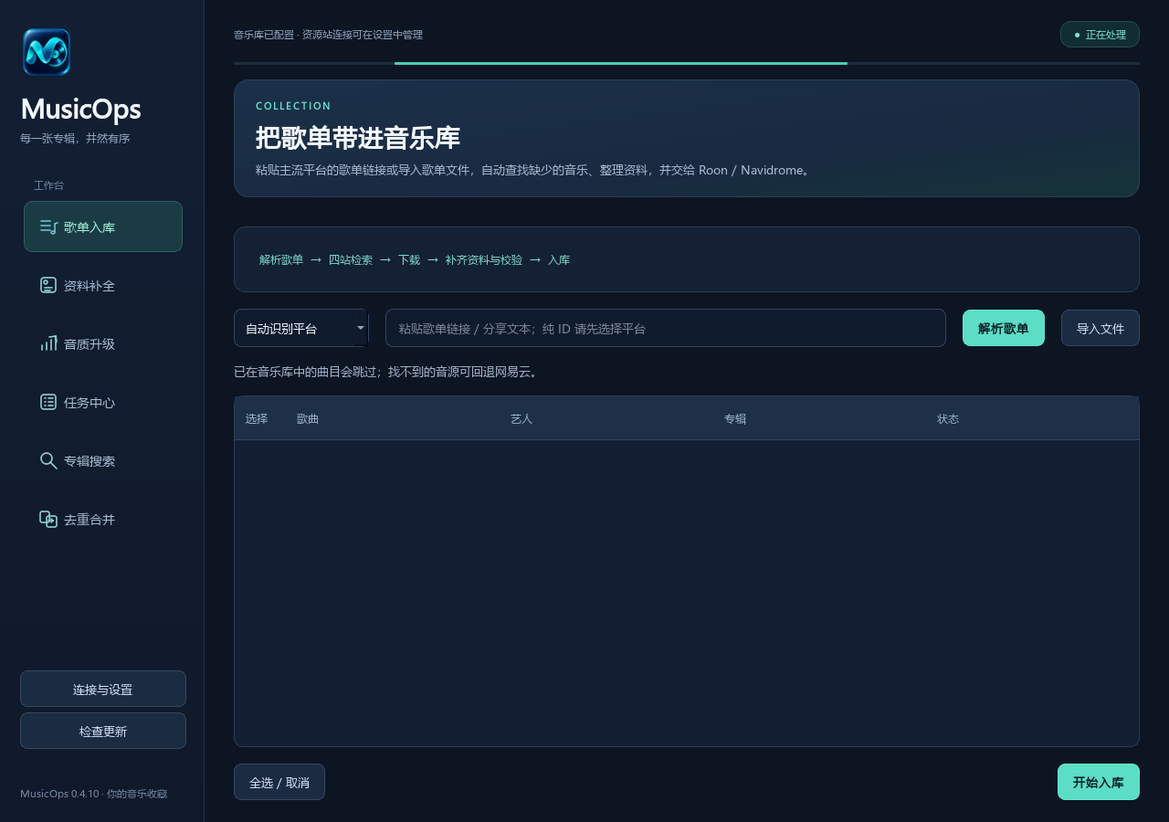
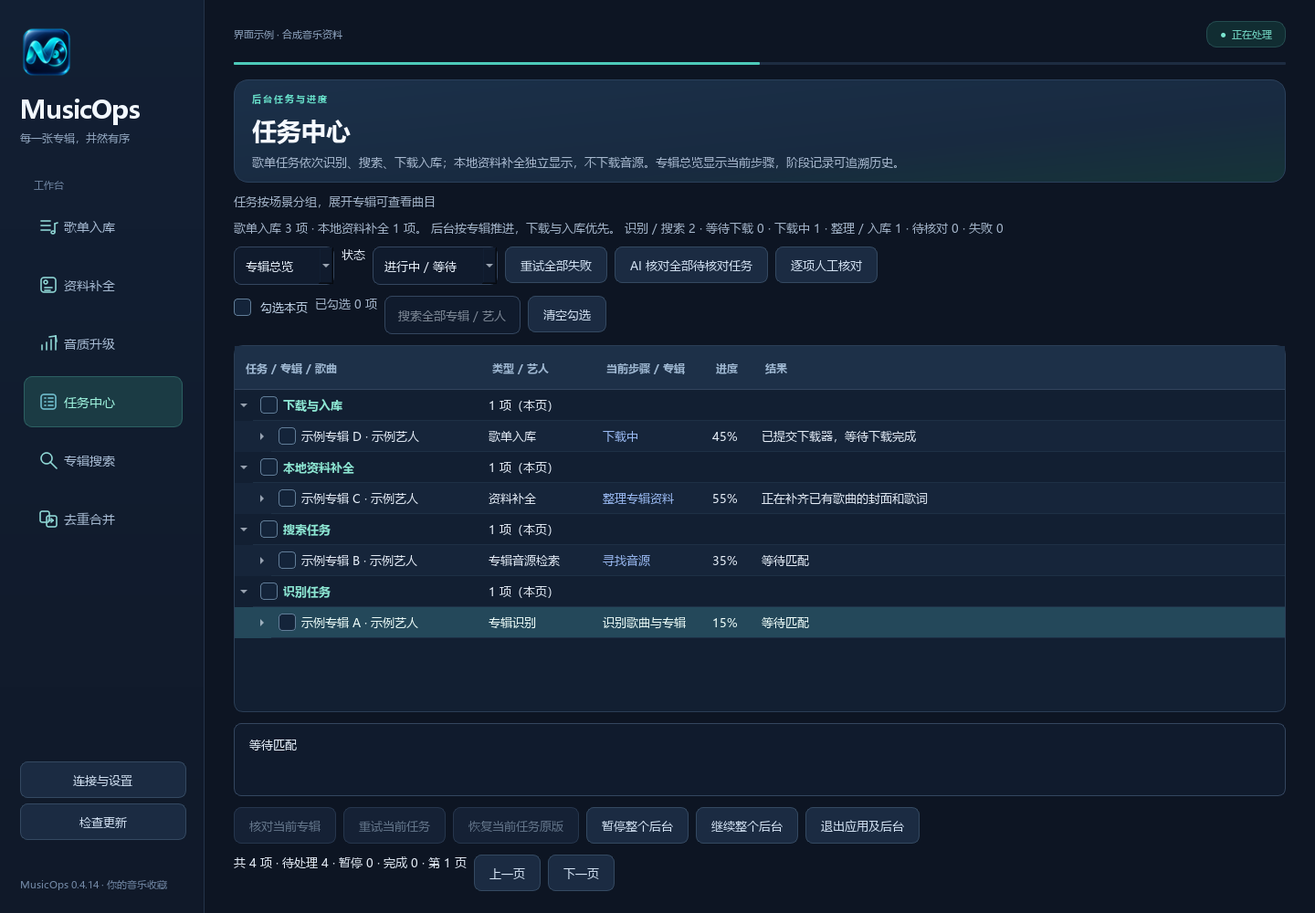
Separate local repair from playlist imports and clarify task operations

diff --git a/src/musicops/gui/workbench.py b/src/musicops/gui/workbench.py
@@ -18,7 +18,7 @@ from musicops.providers.playlist_access import HELP as PLAYLIST_AUTH_HELP
 SITES=[('open.cd','OpenCD','www.open.cd'),('dicmusic','DicMusic','dicmusic.com'),('orpheus','Orpheus','orpheus.network'),('redacted','RED','redacted.sh')]
 SCENES={'playlist':'歌单入库','complete':'资料补全','upgrade':'音质升级','fill':'补全整张专辑'}
 STAGES={'preparing':'检查本地库并准备任务','identifying':'识别歌曲与专辑','snapshotting':'核对原音源','queued':'已排队','restored':'已恢复原版','enrich':'补全资料','planning':'分析曲目','searching':'寻找音源','requesting':'获取下载资源','downloading':'下载中','fallback':'流媒体完整音源回退','metadata':'整理专辑资料','validating':'检查完整音频','publishing':'写入音乐库','retiring':'移出旧版','notifying':'通知音乐服务器','running':'正在处理','completed':'已完成','needs_review':'需要核对','failed':'未完成','cancelled':'已取消','skipped':'已跳过','waiting':'等待处理'}
-TASK_GROUPS=(('identify','识别任务'),('search','搜索任务'),('process','下载与入库'))
+TASK_GROUPS=(('identify','识别任务'),('search','搜索任务'),('repair','本地资料补全'),('process','下载与入库'))
 
 def eye_icon():
     image=QPixmap(20,20);image.fill(Qt.transparent);painter=QPainter(image);painter.setRenderHint(QPainter.Antialiasing);painter.setPen(QPen(QColor('#91a7c2'),1.6));painter.drawEllipse(2,5,16,10);painter.drawEllipse(8,8,4,4);painter.end();return QIcon(image)
@@ -284,7 +284,7 @@ class Workbench(QMainWindow):
         busy=bool(foreground or (self.tasks or getattr(self,'active_jobs',0)) and not globally_paused and not (paused and not getattr(self,'active_jobs',0)))
         self.activity.setText('●  后台已暂停' if globally_paused else '●  正在处理' if busy else f'●  已暂停 {paused} 项' if paused else '●  后台就绪');self.busy_bar.setRange(0,0) if busy else self.busy_bar.setRange(0,100);self.busy_bar.setValue(0 if busy else 100);self.notice.setVisible(bool(self.notice.text()))
     def page(self,title,subtitle):
-        w=QWidget();w.setObjectName('workbenchPage');w.setAutoFillBackground(True);box=QVBoxLayout(w);box.setContentsMargins(0,0,0,0);box.setSpacing(18);hero=QWidget();hero.setObjectName('hero');hero_box=QVBoxLayout(hero);hero_box.setContentsMargins(24,22,24,22);hero_box.setSpacing(9);hero_box.addWidget(label(('COLLECTION','METADATA','SOUND QUALITY','ACTIVITY','DISCOVERY','LIBRARY CARE')[self.stack.count()],'eyebrow'));hero_box.addWidget(label(title,'title'));hero_box.addWidget(label(subtitle,'subtitle'));box.addWidget(hero);scroll=QScrollArea();scroll.setObjectName('pageScroll');scroll.setWidgetResizable(True);scroll.setFrameShape(QScrollArea.NoFrame);scroll.setHorizontalScrollBarPolicy(Qt.ScrollBarAlwaysOff);scroll.setWidget(w);self.stack.addWidget(scroll);return box
+        w=QWidget();w.setObjectName('workbenchPage');w.setAutoFillBackground(True);box=QVBoxLayout(w);box.setContentsMargins(0,0,0,0);box.setSpacing(18);hero=QWidget();hero.setObjectName('hero');hero_box=QVBoxLayout(hero);hero_box.setContentsMargins(24,22,24,22);hero_box.setSpacing(9);hero_box.addWidget(label(('歌单入库流程','本地资料整理','音源质量比较','后台任务与进度','手动检索音源','音乐库维护')[self.stack.count()],'eyebrow'));hero_box.addWidget(label(title,'title'));hero_box.addWidget(label(subtitle,'subtitle'));box.addWidget(hero);scroll=QScrollArea();scroll.setObjectName('pageScroll');scroll.setWidgetResizable(True);scroll.setFrameShape(QScrollArea.NoFrame);scroll.setHorizontalScrollBarPolicy(Qt.ScrollBarAlwaysOff);scroll.setWidget(w);self.stack.addWidget(scroll);return box
     def steps(self,box,text):
         group=QGroupBox();group.setObjectName('card');layout=QVBoxLayout(group);layout.addWidget(label(text,'steps'));box.addWidget(group)
     def table(self,columns):
@@ -292,40 +292,41 @@ class Workbench(QMainWindow):
         if columns[0]=='选择':table.horizontalHeader().setSectionResizeMode(0,QHeaderView.ResizeToContents)
         return table
     def _playlist(self):
-        box=self.page('把歌单带进音乐库','粘贴主流平台的歌单链接或导入歌单文件，自动查找缺少的音乐、整理资料，并交给 Roon / Navidrome。');self.steps(box,'解析歌单  →  四站检索  →  下载  →  补齐资料与校验  →  入库')
+        box=self.page('把歌单带进音乐库','粘贴主流平台的歌单链接或导入歌单文件，自动查找缺少的音乐、整理资料，并交给 Roon / Navidrome。');self.steps(box,'读取歌单  →  对比本地音乐库  →  识别缺失专辑  →  搜索与下载  →  校验入库')
         row=QHBoxLayout();self.playlist_platform=QComboBox();self.playlist_platform.addItem('自动识别平台','auto')
         for key,name in PLATFORMS.items():self.playlist_platform.addItem(name,key)
         self.playlist_platform.setMaximumWidth(170);row.addWidget(self.playlist_platform);self.playlist=line('','粘贴歌单链接 / 分享文本；纯 ID 请先选择平台');row.addWidget(self.playlist);row.addWidget(button('解析歌单',self.parse,True));row.addWidget(button('导入文件',self.import_playlist));box.addLayout(row)
         self.playlist_note=label('已在音乐库中的曲目会跳过；找不到的音源可回退网易云。','hint');box.addWidget(self.playlist_note)
         self.track_table=self.table(['选择','歌曲','艺人','专辑','状态']);self.track_table.setMinimumHeight(220);box.addWidget(self.track_table,1)
-        row=QHBoxLayout();row.addWidget(button('全选 / 取消',self.select_all));row.addStretch();row.addWidget(button('开始入库',lambda:self.start('playlist'),True));box.addLayout(row)
+        row=QHBoxLayout();row.addWidget(button('全选 / 取消',self.select_all));row.addWidget(button('恢复已解析曲目',self.load_cached_playlist));row.addStretch();row.addWidget(button('开始入库',lambda:self.start('playlist'),True));box.addLayout(row)
     def _complete(self):
         box=self.page('补齐音乐库资料','检查专辑、艺人、封面和歌词。可靠匹配自动补齐，资料不明确的项目单独列出。');self.steps(box,'读取标签  →  识别缺失资料  →  查询与匹配  →  写入副本并验证')
         card=QGroupBox('将补齐的内容');card.setObjectName('card');form=QVBoxLayout(card)
         for text in ('专辑名、艺人和专辑艺人','封面图片','同名 .lrc 歌词（有匹配时）','多碟编号与目录结构'):
             form.addWidget(label('✓  '+text))
         box.addWidget(card);self.catalog_note=label('本地专辑资料库：尚未建立','hint');box.addWidget(self.catalog_note)
-        box.addWidget(button('检查并补全整张专辑（补缺曲，保留现有音频）',lambda:self.start('fill')))
+        box.addWidget(label('需要补缺曲？这会核对完整曲目表，再搜索、下载缺失歌曲；已在库中的音频保留。','hint'))
+        box.addWidget(button('查找并下载专辑缺失的歌曲',lambda:self.start('fill')))
         catalog_actions=QHBoxLayout();catalog_actions.addWidget(button('更新本地资料库',self.refresh_catalog));catalog_actions.addWidget(button('查看专辑资料库',self.browse_catalog));catalog_actions.addStretch();box.addLayout(catalog_actions)
-        box.addWidget(label('保留已有可靠资料；有冲突时等待核对。暂无资料的结果缓存一天，避免重复查询。','hint'));box.addStretch();row=QHBoxLayout();row.addWidget(button('重新查询暂无资料',lambda:self.start('complete',True)));row.addStretch();row.addWidget(button('检查并自动补全',lambda:self.start('complete'),True));box.addLayout(row)
+        box.addWidget(label('下面的“补齐已有歌曲资料”只补标签、封面和歌词，不下载音源。保留可靠资料，有冲突时等待核对。未找到的资料缓存一天。','hint'));box.addStretch();row=QHBoxLayout();row.addWidget(button('重新查询之前未找到的资料',lambda:self.start('complete',True)));row.addStretch();row.addWidget(button('补齐已有歌曲资料',lambda:self.start('complete'),True));box.addLayout(row)
     def _upgrade(self):
         box=self.page('寻找更好的音源','比较同一录音、同一发行的音源，验证新版完整后，再将旧版移出音乐库。');self.steps(box,'识别现有音质  →  四站寻找更好版本  →  下载与补齐  →  完整验证  →  替换旧版')
         card=QGroupBox('升级偏好');card.setObjectName('card');form=QVBoxLayout(card);self.prefer24=QCheckBox('同一录音优先选择无损 24 bit');self.prefer24.setChecked(True);form.addWidget(self.prefer24);form.addWidget(label('有损格式比较有效码率；无损格式比较位深、采样率和实际编码，不按文件大小判断。','hint'));box.addWidget(card)
         box.addWidget(label('替换前核对曲目、发行和全部音频。旧版移出音乐库后保留短期恢复副本；下载与做种源不改动。','hint'));box.addStretch();box.addWidget(button('检查并自动升级',lambda:self.start('upgrade'),True))
     def _tasks(self):
-        box=self.page('任务中心','每张专辑显示当前阶段。识别和搜索完成后继续下载与入库，历史步骤可切换至阶段记录。')
+        box=self.page('任务中心','歌单任务依次识别、搜索、下载入库；本地资料补全独立显示，不下载音源。专辑总览显示当前步骤，阶段记录可追溯历史。')
         box.setSpacing(12);box.itemAt(0).widget().layout().setContentsMargins(20,14,20,14)
         self.checked_jobs={};self.job_items={};self.job_groups={};self.job_detail_cache={};self.job_detail_notes={};self.job_track_versions={};self.job_detail_requests=set();self.expanded_job_ids=set();self.bulk_pending=False
         self.execution_note=label('正在连接后台…','hint');box.addWidget(self.execution_note);self.task_summary=label('正在读取专辑队列…','hint');box.addWidget(self.task_summary)
         row=WrapLayout();self.task_view=QComboBox();self.task_view.addItem('专辑总览','albums');self.task_view.addItem('阶段记录','steps');self.task_view.currentIndexChanged.connect(self.change_task_view);row.addWidget(self.task_view);row.addWidget(label('状态'));self.task_filter=QComboBox()
         for name,key in (('进行中 / 等待','active'),('需要核对','review'),('失败','failed'),('已结束','completed'),('全部','all')):self.task_filter.addItem(name,key)
         self.task_filter.currentIndexChanged.connect(self.change_task_filter);row.addWidget(self.task_filter);row.addStretch()
-        row.addWidget(button('重试全部失败',lambda:self.all_task_action('retry')));row.addWidget(button('全量 AI 核对',lambda:self.all_task_action('ai')));row.addWidget(button('全部手动核对',lambda:self.all_task_action('manual')));box.addLayout(row)
+        row.addWidget(button('重试全部失败',lambda:self.all_task_action('retry')));row.addWidget(button('AI 核对全部待核对任务',lambda:self.all_task_action('ai')));row.addWidget(button('逐项人工核对',lambda:self.all_task_action('manual')));box.addLayout(row)
         row=WrapLayout();self.job_select_page=QCheckBox('勾选本页');self.job_select_page.setTristate(True);self.job_select_page.stateChanged.connect(self.select_job_page);row.addWidget(self.job_select_page);self.job_selection_note=label('已勾选 0 项','hint');row.addWidget(self.job_selection_note);row.addStretch();self.task_query=line('','搜索全部专辑 / 艺人');self.task_query.setMaximumWidth(240);self.task_query.setMaxLength(200);self.task_query_timer=QTimer(self);self.task_query_timer.setSingleShot(True);self.task_query_timer.setInterval(350);self.task_query_timer.timeout.connect(self.change_task_filter);self.task_query.textChanged.connect(lambda _:self.task_query_timer.start());row.addWidget(self.task_query);row.addWidget(button('清空勾选',self.clear_checked_jobs));box.addLayout(row)
         self.selection_actions=QWidget();row=WrapLayout(self.selection_actions);row.setContentsMargins(0,0,0,0);self.bulk_buttons=[]
-        for text,action in (('暂停勾选','pause'),('继续勾选','resume'),('取消勾选','cancel'),('重试失败勾选','retry'),('删除勾选','delete')):
+        for text,action in (('暂停选中任务','pause'),('恢复选中任务','resume'),('取消选中任务','cancel'),('重试选中失败任务','retry'),('删除选中记录','delete')):
             action_button=button(text,lambda checked=False,a=action:self.bulk_action(a));self.bulk_buttons.append(action_button);row.addWidget(action_button)
-        self.bulk_ai_button=button('AI 辅助勾选',self.explain);row.addWidget(self.bulk_ai_button);row.addStretch();box.addWidget(self.selection_actions)
+        self.bulk_ai_button=button('AI 核对选中任务',self.explain);row.addWidget(self.bulk_ai_button);row.addStretch();box.addWidget(self.selection_actions)
         self.job_table=QTreeWidget();self.job_table.setColumnCount(5);self.job_table.setHeaderLabels(['任务 / 专辑 / 歌曲','类型 / 艺人','当前步骤 / 专辑','进度','结果']);self.job_table.setAlternatingRowColors(True);self.job_table.setSelectionMode(QAbstractItemView.SingleSelection);self.job_table.setEditTriggers(QAbstractItemView.NoEditTriggers);self.job_table.setUniformRowHeights(True);self.job_table.setIndentation(20);self.job_table.setRootIsDecorated(True)
         header=self.job_table.header();header.setDefaultAlignment(Qt.AlignLeft|Qt.AlignVCenter);header.setSectionResizeMode(0,QHeaderView.Interactive);self.job_table.setColumnWidth(0,270);header.setSectionResizeMode(1,QHeaderView.Interactive);self.job_table.setColumnWidth(1,125)
         for column in (2,3):header.setSectionResizeMode(column,QHeaderView.ResizeToContents)
@@ -504,6 +505,12 @@ class Workbench(QMainWindow):
             self.loaded_tracks(result)
             if result.get('reason') and not result.get('targets'):self.playlist_note.setText(self.playlist_note.text()+' '+result['reason'])
         self.call('refresh_playlist',payload,parsed,lambda error:self.playlist_note.setText('读取未完成：'+error))
+    def load_cached_playlist(self):
+        def loaded(result):
+            if not result.get('targets'):
+                self.playlist_note.setText('本机还没有歌单缓存，请先解析歌单或导入文件。');return
+            self.loaded_tracks(result)
+        self.call('get_playlist_targets',{},loaded,lambda error:self.playlist_note.setText('缓存读取未完成：'+error))
     def loaded_tracks(self,result):
         self.targets=result['targets'];self.track_table.setRowCount(len(self.targets))
         self.track_table.setUpdatesEnabled(False)
@@ -515,7 +522,7 @@ class Workbench(QMainWindow):
         self.track_table.setUpdatesEnabled(True)
         incomplete_count=sum(not t.get('metadata_complete',True) for t in self.targets)
         suffix=(f'（含 {incomplete_count} 首待识别专辑资料）' if incomplete_count else '')+(' 来源清单未完全对账，仅处理你明确选择的可见曲目。' if not result.get('complete',True) else '')
-        self.playlist_note.setText(f'已载入 {len(self.targets)} 首；选择需要入库的曲目。任务会按专辑去重。'+suffix)
+        self.playlist_note.setText(('已载入本机缓存，尚未重新联网核实。' if result.get('from_cache') else '')+f'已载入 {len(self.targets)} 首；选择需要入库的曲目。任务会按专辑去重。'+suffix)
     def select_all(self):
         checked=not all(self.track_table.item(i,0).checkState()==Qt.Checked for i in range(self.track_table.rowCount()))
         self.track_table.setUpdatesEnabled(False)
@@ -532,7 +539,10 @@ class Workbench(QMainWindow):
             self.refresh()
         self.call('start_workflow',{'scene':scene,'target_ids':targets,'prefer_24bit':self.prefer24.isChecked(),'refresh_resources':refresh_resources},started)
     def show_jobs(self,result):
-        counts=result.get('stage_counts',{});self.task_summary.setText(('后台已暂停 · 点击“继续整个后台”推进队列。 ' if getattr(self,'pipeline_paused',False) else '后台按专辑推进，下载与入库优先。 ')+f"识别 / 搜索 {sum(counts.get(k,0) for k in ('identifying','snapshotting','searching'))} · 等待下载 {counts.get('requesting',0)+counts.get('fallback',0)} · 下载中 {counts.get('downloading',0)} · 整理 / 入库 {sum(counts.get(k,0) for k in ('metadata','enrich','validating','notifying'))} · 待核对 {counts.get('needs_review',0)} · 失败 {counts.get('failed',0)}" if result.get('view')=='albums' else '阶段记录：识别 / 搜索完成表示该步骤结束；请切换“专辑总览”查看后续下载与入库。')
+        scene_counts=result.get('scene_active_counts',{})
+        scene_note='当前仅有本地资料补全，不会搜索或下载音源。 ' if scene_counts.get('complete') and not any(scene_counts.get(k) for k in ('playlist','upgrade','fill')) else ''
+        scene_note+=f"歌单入库 {scene_counts.get('playlist',0)} 项 · 本地资料补全 {scene_counts.get('complete',0)} 项。 " if scene_counts else ''
+        counts=result.get('stage_counts',{});self.task_summary.setText(('后台已暂停 · 点击“继续整个后台”推进队列。 ' if getattr(self,'pipeline_paused',False) else scene_note+'后台按专辑推进，下载与入库优先。 ')+f"识别 / 搜索 {sum(counts.get(k,0) for k in ('identifying','snapshotting','searching'))} · 等待下载 {counts.get('requesting',0)+counts.get('fallback',0)} · 下载中 {counts.get('downloading',0)} · 整理 / 入库 {sum(counts.get(k,0) for k in ('metadata','enrich','validating','notifying'))} · 待核对 {counts.get('needs_review',0)} · 失败 {counts.get('failed',0)}" if result.get('view')=='albums' else '阶段记录：识别 / 搜索完成表示该步骤结束；请切换“专辑总览”查看后续下载与入库。')
         self.job_total=result.get('total',0);self.active_jobs=result.get('active',0);self.paused_jobs=result.get('paused_count',0);self.job_counts.setText(f"共 {self.job_total} 项 · 待处理 {self.active_jobs} · 暂停 {self.paused_jobs} · 完成 {result.get('finished',0)} · 第 {self.job_offset//200+1} 页")
         selected=self.selected_job();jobs=result.get('jobs',[]);collapsed={key for key,item in self.job_groups.items() if not item.isExpanded()};scroll=self.job_table.verticalScrollBar().value();anchor=self.scroll_anchor()
         groups=tuple(reversed(TASK_GROUPS)) if result.get('view')=='albums' else TASK_GROUPS
@@ -579,6 +589,7 @@ class Workbench(QMainWindow):
             if job_id not in self.job_detail_cache:self.expand_job(self.job_items[job_id])
     @staticmethod
     def job_group(job):
+        if job.get('scene')=='complete' and job.get('job_kind') not in ('batch','activity'):return 'repair'
         if job.get('task_group') in dict(TASK_GROUPS):return job['task_group']
         if job.get('job_kind')=='batch' or job.get('task_type')=='identification' or job.get('stage') in ('identifying','preparing','planning','enrich','metadata'):return 'identify'
         if job.get('stage') in ('searching','requesting') or job.get('identification_job_id'):return 'search'

diff --git a/src/musicops/app/pipeline.py b/src/musicops/app/pipeline.py
@@ -133,25 +133,28 @@ class Workflows:
         if j.get('paused') and j.get('job_kind')=='batch' and j['stage']=='preparing':
             task=self.store.get('tasks',j.get('start_task_id'))
             pending=bool(task and task['state']=='running')
-        row.update(task_group=j.get('task_group') or ('identify' if j.get('job_kind')=='batch' or j['stage'] in ('identifying','snapshotting','metadata','enrich','planning') else 'search' if j['stage'] in ('searching','requesting') else 'process'),paused=bool(j.get('paused')),pause_pending=pending)
+        group='repair' if j.get('scene')=='complete' and j.get('job_kind') not in ('batch','activity') else j.get('task_group')
+        row.update(task_group=group or ('identify' if j.get('job_kind')=='batch' or j['stage'] in ('identifying','snapshotting','metadata','enrich','planning') else 'search' if j['stage'] in ('searching','requesting') else 'process'),paused=bool(j.get('paused')),pause_pending=pending)
         return row
     def next_job(self,*,network_only=False,include_fallback=False,include_metadata=False):
         import time
         search_turn=getattr(self,'_fallback_turns',0)>=3
+        io_turn=getattr(self,'_io_turns',0)>=3
         fallback_clause=" OR json_extract(payload,'$.stage')='fallback'" if include_fallback else ""
         metadata_clause=" OR json_extract(payload,'$.stage')='metadata'" if include_metadata else ''
         network_clause=" AND (json_extract(payload,'$.stage')='searching' OR (json_extract(payload,'$.stage')='identifying' AND json_extract(payload,'$.scene')!='fill')"+fallback_clause+metadata_clause+")" if network_only else ''
         with self.store.connection() as c:
-            row=c.execute("SELECT payload FROM evidence AS current WHERE id LIKE 'workflow:%' AND coalesce(json_extract(payload,'$.hidden'),0)=0 AND coalesce(json_extract(payload,'$.job_kind'),'album') NOT IN ('batch','activity') AND coalesce(json_extract(payload,'$.paused'),0)=0 AND json_extract(payload,'$.stage') NOT IN ('completed','failed','needs_review','cancelled','skipped','restored','running') AND (json_extract(payload,'$.identification_job_id') IS NULL OR EXISTS (SELECT 1 FROM evidence AS parent WHERE parent.id='workflow:'||json_extract(current.payload,'$.identification_job_id') AND json_extract(parent.payload,'$.stage')='completed')) AND (json_extract(payload,'$.search_job_id') IS NULL OR coalesce(json_extract(payload,'$.task_type'),'')!='album' OR EXISTS (SELECT 1 FROM evidence AS searched WHERE searched.id='workflow:'||json_extract(current.payload,'$.search_job_id') AND json_extract(searched.payload,'$.stage')='completed')) AND coalesce(json_extract(payload,'$.next_poll'),0)<=?"+network_clause+" ORDER BY CASE json_extract(payload,'$.stage') WHEN 'publishing' THEN 0 WHEN 'retiring' THEN 0 WHEN 'notifying' THEN 0 WHEN 'validating' THEN 0 WHEN 'metadata' THEN 1 WHEN 'enrich' THEN 1 WHEN 'downloading' THEN 2 WHEN 'requesting' THEN 3 WHEN 'fallback' THEN CASE WHEN ? THEN 4 ELSE 3 END WHEN 'searching' THEN CASE WHEN ? THEN 3 ELSE 4 END ELSE CASE WHEN ? THEN 3 ELSE 5 END END,updated_at,id LIMIT 1",(time.time(),search_turn,search_turn,search_turn)).fetchone()
+            row=c.execute("SELECT payload FROM evidence AS current WHERE id LIKE 'workflow:%' AND coalesce(json_extract(payload,'$.hidden'),0)=0 AND coalesce(json_extract(payload,'$.job_kind'),'album') NOT IN ('batch','activity') AND coalesce(json_extract(payload,'$.paused'),0)=0 AND json_extract(payload,'$.stage') NOT IN ('completed','failed','needs_review','cancelled','skipped','restored','running') AND (json_extract(payload,'$.identification_job_id') IS NULL OR EXISTS (SELECT 1 FROM evidence AS parent WHERE parent.id='workflow:'||json_extract(current.payload,'$.identification_job_id') AND json_extract(parent.payload,'$.stage')='completed')) AND (json_extract(payload,'$.search_job_id') IS NULL OR coalesce(json_extract(payload,'$.task_type'),'')!='album' OR EXISTS (SELECT 1 FROM evidence AS searched WHERE searched.id='workflow:'||json_extract(current.payload,'$.search_job_id') AND json_extract(searched.payload,'$.stage')='completed')) AND coalesce(json_extract(payload,'$.next_poll'),0)<=?"+network_clause+" ORDER BY CASE json_extract(payload,'$.stage') WHEN 'publishing' THEN 0 WHEN 'retiring' THEN 0 WHEN 'notifying' THEN 0 WHEN 'validating' THEN 0 WHEN 'downloading' THEN CASE WHEN ? THEN 3 ELSE 1 END WHEN 'requesting' THEN CASE WHEN ? THEN 3 ELSE 1 END WHEN 'metadata' THEN 2 WHEN 'enrich' THEN 2 WHEN 'fallback' THEN CASE WHEN ? THEN 4 ELSE 3 END WHEN 'searching' THEN CASE WHEN ? THEN 3 ELSE 4 END ELSE CASE WHEN ? THEN 3 ELSE 5 END END,updated_at,id LIMIT 1",(time.time(),io_turn,io_turn,search_turn,search_turn,search_turn)).fetchone()
         return json.loads(row[0]) if row else None
     def queue(self,args,cfg,task_id=None):
         """Expose the preparation before the serial worker begins any filesystem IO."""
         scene=args.get('scene')
         if scene not in SCENES:raise ValueError('请选择歌单入库、资料补全或音质升级')
         if cfg['offline']:raise PolicyBlocked('请先在连接向导完成设置')
-        # Prevent two live batches from modifying the same album or issuing duplicate FL.
+        # Keep scans and replacement batches exclusive. A local-only repair
+        # must not prevent an independently selected playlist import.
         with self.store.connection() as c:
-            active=c.execute("SELECT 1 FROM evidence WHERE id LIKE 'workflow:%' AND coalesce(json_extract(payload,'$.hidden'),0)=0 AND coalesce(json_extract(payload,'$.job_kind'),'album')!='activity' AND json_extract(payload,'$.stage') NOT IN ('completed','failed','needs_review','cancelled','skipped','restored') LIMIT 1").fetchone()
+            active=c.execute("SELECT 1 FROM evidence WHERE id LIKE 'workflow:%' AND coalesce(json_extract(payload,'$.hidden'),0)=0 AND coalesce(json_extract(payload,'$.job_kind'),'album')!='activity' AND json_extract(payload,'$.stage') NOT IN ('completed','failed','needs_review','cancelled','skipped','restored') AND (json_extract(payload,'$.stage')='preparing' OR coalesce(json_extract(payload,'$.scene'),'')=? OR coalesce(json_extract(payload,'$.scene'),'') NOT IN ('playlist','complete') OR ? NOT IN ('playlist','complete')) LIMIT 1",(scene,scene)).fetchone()
         if active:raise PolicyBlocked('已有任务正在准备或运行，请等待完成或取消后再开始下一批')
         root=Path(cfg['paths']['library']);reject_reparse_chain(root)
         if not root.is_dir():raise ValueError('音乐库目录不存在，请在设置中选择已有目录')
@@ -222,7 +225,7 @@ class Workflows:
                 if recent:continue
             job_id=str(uuid.uuid4());first=tracks[0];stage='metadata' if scene=='complete' else 'snapshotting' if scene in ('upgrade','fill') else 'identifying'
             paused=bool((self.store.get('evidence','workflow:'+batch['job_id']) or {}).get('paused'))
-            job={'kind':'workflow','job_id':job_id,'batch_id':batch_id,'scene':scene,'config':copy.deepcopy(cfg),'targets':tracks if scene=='playlist' else [],'old_files':tracks if scene!='playlist' else [],'stage':stage,'task_group':'identify','task_type':'album' if scene=='complete' else 'identification','target_count':len(tracks),'paused':paused,'progress':0,'created_at':utcnow(),'message':'等待识别' if scene=='playlist' else '等待处理','detail':'','label':(first.get('album') or '待识别专辑')+' · '+' / '.join(first.get('albumartist') or first.get('artists',[])),'prefer_24bit':args.get('prefer_24bit',cfg['workflow']['prefer_24bit']),'refresh_resources':bool(args.get('refresh_resources'))}
+            job={'kind':'workflow','job_id':job_id,'batch_id':batch_id,'scene':scene,'config':copy.deepcopy(cfg),'targets':tracks if scene=='playlist' else [],'old_files':tracks if scene!='playlist' else [],'stage':stage,'task_group':'repair' if scene=='complete' else 'identify','task_type':'album' if scene=='complete' else 'identification','target_count':len(tracks),'paused':paused,'progress':0,'created_at':utcnow(),'message':'等待识别' if scene=='playlist' else '等待处理','detail':'','label':(first.get('album') or '待识别专辑')+' · '+' / '.join(first.get('albumartist') or first.get('artists',[])),'prefer_24bit':args.get('prefer_24bit',cfg['workflow']['prefer_24bit']),'refresh_resources':bool(args.get('refresh_resources'))}
             if scene=='playlist':
                 local=local_groups.get((strict_text(first.get('album')),artist_key(first.get('albumartist') or first.get('artists',[]))),[])
                 if len({str(album_root(f,root)) for f in local})==1:job['existing_album_files']=local
@@ -230,6 +233,7 @@ class Workflows:
             created+=1
             if created%25==0:self.put(batch,progress=90,album_count=created,message=f'正在创建专辑任务：已创建 {created} / {len(groups)} 项')
         message=f'已创建 {created} 个专辑任务；已经存在的歌单曲目和近期检查过的专辑已跳过'
+        if scene=='complete':message=f'已创建 {created} 个本地资料补全任务；只整理现有音源，不触发 PT 搜索或音源下载。歌单入库可另外提交。'
         self.put(batch,stage='completed',progress=100,album_count=created,message=message,detail='准备完成，专辑任务会在后台依次处理。' if created else '本批次没有需要处理的专辑。可检查曲目是否已在库中，或启用重新检查。')
         return {'status':'OK','batch_id':batch_id,'album_count':created,'message':message}
     def recover(self):
@@ -356,6 +360,8 @@ class Workflows:
                 if not job:return {'status':'OK','idle':True}
                 parallel=self._parallel_job(job)
                 jobs=[job];stage=job['stage']
+                if stage in ('downloading','requesting'):self._io_turns=getattr(self,'_io_turns',0)+1
+                elif stage in ('metadata','enrich'):self._io_turns=0
                 if stage=='fallback':self._fallback_turns=getattr(self,'_fallback_turns',0)+1
                 elif stage in ('searching','identifying','snapshotting','queued'):self._fallback_turns=0
                 self.put(job,stage='running',resume_stage=stage)
@@ -363,7 +369,8 @@ class Workflows:
                     for _ in range(self.parallel_limit()-1):
                         fallback_count=sum(row['resume_stage']=='fallback' for row in jobs)
                         metadata_count=sum(row['resume_stage']=='metadata' for row in jobs)
-                        peer=self.next_job(network_only=True,include_fallback=fallback_count<2,include_metadata=metadata_count<2)
+                        peer=self.next_job(network_only=True) if len(jobs)==1 and stage in ('metadata','fallback') else None
+                        if not peer:peer=self.next_job(network_only=True,include_fallback=fallback_count<2,include_metadata=metadata_count<2)
                         if peer and not self._parallel_job(peer):peer=self.next_job(network_only=True)
                         if not peer:break
                         if peer['stage']=='fallback':self._fallback_turns=getattr(self,'_fallback_turns',0)+1

diff --git a/tests/test_release0414_queue_scenes.py b/tests/test_release0414_queue_scenes.py
@@ -1,0 +1,97 @@
+import copy
+import pytest
+from test_workflow_start import preparation
+from test_search_resilience import service,make_job
+from test_task_center import app,window_for,wait
+from PySide6.QtCore import Qt
+from musicops.clients.http import PolicyBlocked
+
+
+@pytest.mark.parametrize('existing,new',[('complete','playlist'),('playlist','complete')])
+def test_independent_import_and_local_repair_can_be_submitted(preparation,existing,new):
+    s,cfg=preparation
+    s.workflows.put({'job_id':'existing','stage':'metadata','scene':existing,'task_type':'album','task_group':'identify'})
+    accepted=s.dispatch('start_workflow',{'scene':new,'target_ids':['synthetic-selected-track']})
+    assert accepted['accepted']
+    assert s.store.get('evidence','workflow:existing')['stage']=='metadata'
+    assert not s.store.list('download_tasks') and not s.store.list('token_reservations')
+
+
+@pytest.mark.parametrize('existing,new',[('complete','complete'),('playlist','playlist'),('complete','upgrade'),('upgrade','playlist'),('fill','complete')])
+def test_duplicate_and_replacement_batches_still_require_exclusion(preparation,existing,new):
+    s,cfg=preparation
+    s.workflows.put({'job_id':'existing','stage':'metadata','scene':existing})
+    with pytest.raises(PolicyBlocked,match='准备或运行'):
+        s.dispatch('start_workflow',{'scene':new,'target_ids':['synthetic-selected-track']})
+
+
+def test_preparing_scan_still_blocks_other_scene(preparation):
+    s,cfg=preparation
+    s.workflows.put({'job_id':'existing','stage':'preparing','scene':'complete','job_kind':'batch'})
+    with pytest.raises(PolicyBlocked):s.dispatch('start_workflow',{'scene':'playlist','target_ids':['track']})
+
+
+def test_legacy_repair_group_is_corrected_without_changing_durable_state(service):
+    row=make_job(service);row.update(scene='complete',task_type='album',task_group='identify',stage='metadata')
+    service.workflows.put(row)
+    assert service.workflows.public_row(row)['task_group']=='repair'
+    assert service.store.get('evidence','workflow:'+row['job_id'])['task_group']=='identify'
+
+
+def test_ready_download_progress_precedes_large_metadata_backlog_and_yields(service):
+    flows=service.workflows
+    for i in range(30):
+        row=copy.deepcopy(make_job(service));row.update(job_id=f'metadata-{i}',scene='complete',stage='metadata');flows.put(row)
+    row=copy.deepcopy(make_job(service));row.update(job_id='ready-download',stage='requesting');flows.put(row)
+    assert flows.next_job()['job_id']=='ready-download'
+    flows._io_turns=3
+    assert flows.next_job()['stage']=='metadata'
+    flows.put({'job_id':'verified-publication','scene':'playlist','stage':'publishing'})
+    assert flows.next_job()['job_id']=='verified-publication'
+
+
+def test_partial_playlist_cache_keeps_completeness_and_requires_explicit_selection(service):
+    service.store.put('target_tracks','netease:1',{'target_id':'netease:1','raw_title':'Song','artists':['Artist'],'album':'Album','snapshot_complete':False})
+    result=service.dispatch('get_playlist_targets',{})
+    assert len(result['targets'])==1 and result['complete'] is False
+    assert result['from_cache'] and result['network_used'] is False
+    assert not service.store.list('download_tasks')
+
+
+def test_two_slot_worker_reserves_a_network_peer_amid_metadata_backlog(service,monkeypatch):
+    flows=service.workflows
+    for i in range(3):
+        row=copy.deepcopy(make_job(service));row.update(job_id=f'metadata-{i}',scene='complete',stage='metadata');flows.put(row)
+    monkeypatch.setattr(flows,'parallel_limit',lambda:2)
+    monkeypatch.setattr(service,'_checkpoint',lambda phase:None)
+    seen=[]
+    def stage(job):seen.append(job['resume_stage']);flows.put(job,stage='completed')
+    monkeypatch.setattr(flows,'_metadata',stage);monkeypatch.setattr(flows,'_searching',stage)
+    assert flows.advance()['parallel_count']==2
+    assert sorted(seen)==['metadata','searching']
+
+
+def test_gui_loads_partial_cache_without_selecting_or_starting_tasks(app,tmp_path):
+    window,client=window_for(tmp_path);call=client.call
+    def cached(command,payload):
+        if command=='get_playlist_targets':
+            client.calls.append((command,payload))
+            return {'targets':[{'target_id':'netease:1','raw_title':'Song','artists':['Artist'],'album':'Album'}],'from_cache':True,'complete':False,'network_used':False}
+        return call(command,payload)
+    client.call=cached
+    try:
+        window.load_cached_playlist();wait(app,window)
+        assert window.track_table.rowCount()==1
+        assert window.track_table.item(0,0).checkState()==Qt.Unchecked
+        assert '尚未重新联网' in window.playlist_note.text() and '未完全对账' in window.playlist_note.text()
+        assert not any(command=='start_workflow' for command,_ in client.calls)
+    finally:window.close()
+
+
+def test_album_overview_exposes_scene_and_does_not_bury_search(service):
+    flows=service.workflows
+    for i in range(205):flows.put({'job_id':f'repair-{i}','scene':'complete','task_type':'album','stage':'metadata'})
+    flows.put({'job_id':'visible-search','scene':'playlist','task_type':'search','stage':'searching'})
+    result=flows.list(view='albums',state='active')
+    assert result['jobs'][0]['job_id']=='visible-search'
+    assert result['scene_active_counts']=={'complete':205,'playlist':1}

diff --git a/packaging/smoke_parallel.py b/packaging/smoke_parallel.py
@@ -17,6 +17,9 @@ store=StateStore(base/'state/musicops.sqlite');manager=ConfigManager(store,base,
 current=manager.current();cfg=current['values'];cfg['workflow'].update(setup_done=True,netease_fallback=False);cfg['catalog']['enabled']=False;cfg['ai']['enabled']=False
 for settings in cfg['providers'].values():settings['enabled']=False
 manager.save(cfg,current['version'])
+Path(cfg['paths']['library']).mkdir(parents=True,exist_ok=True)
+store.put('target_tracks','selected-cache-song',{'target_id':'selected-cache-song','raw_title':'Synthetic Song','artists':['Synthetic Artist'],'album':'Synthetic Album','duration':120,'source':'local','snapshot_complete':False})
+store.put('evidence','workflow:paused-local-repair',{'batch_id':'synthetic-batch','job_id':'paused-local-repair','kind':'workflow','scene':'complete','task_type':'album','task_group':'identify','stage':'metadata','paused':True,'config':copy.deepcopy(cfg),'targets':[],'old_files':[]})
 store.put('evidence','workflow:batch:synthetic-batch',{'job_id':'batch:synthetic-batch','job_kind':'batch','batch_id':'synthetic-batch','stage':'completed','scene':'playlist'})
 for i in range(8):
  row={'batch_id':'synthetic-batch','job_id':'parallel-'+str(i),'kind':'workflow','task_type':'identification','scene':'playlist','stage':'identifying','config':copy.deepcopy(cfg),'targets':[{'raw_title':'Synthetic Song','album':'Synthetic Album','artists':['Synthetic Artist'],'duration':120,'source':'local'}],'old_files':[],'created_at':'2026-01-01T00:00:00+00:00'}
@@ -31,12 +34,18 @@ try:
   try:
    client.call('get_status',{'compact':True})
    jobs=[store.get('evidence','workflow:parallel-'+str(i)) for i in range(8)]
-   if all(job['stage']=='completed' for job in jobs):break
+   if all(job['stage']=='completed' and (store.get('evidence','workflow:'+job.get('search_job_id','')) or {}).get('stage')=='needs_review' for job in jobs):break
   except (OSError,EOFError):pass
   time.sleep(.2)
  else:raise TimeoutError('Frozen parallel wave did not complete')
  tasks=store.list('tasks');waves=[task.get('result',{}).get('parallel_count',1) for task in tasks if task['command']=='advance_workflows' and task.get('result')]
  checks={'actual_worker_running':process.poll() is None,'eight_identifications_completed':all(job['stage']=='completed' for job in jobs),'unique_search_children':len({job.get('search_job_id') for job in jobs})==8,'parallel_waves_observed':max(waves,default=0)>=2,'bounded_at_four':max(waves,default=0)<=4,'no_downloads_or_tokens':not store.list('download_tasks') and not store.list('token_reservations')}
+ accepted=client.call('start_workflow',{'scene':'playlist','target_ids':['selected-cache-song']})
+ checks['repair_allows_selected_playlist_batch']=accepted.get('accepted') is True
+ repair=next(row for row in client.call('list_workflows',{})['jobs'] if row['job_id']=='paused-local-repair')
+ checks['legacy_repair_group_is_repair']=repair['task_group']=='repair'
+ cached=client.call('get_playlist_targets',{})
+ checks['partial_cache_remains_partial']=cached['from_cache'] and cached['complete'] is False and len(cached['targets'])==1
  report={'passed':all(checks.values()),'checks':checks,'observed_wave_sizes':waves,'synthetic_only':True,'external_requests':0}
  report_path.write_text(json.dumps(report,indent=2),'utf-8');print(json.dumps(report));assert report['passed']
 finally:

diff --git a/src/musicops/app/task_overview.py b/src/musicops/app/task_overview.py
@@ -12,6 +12,7 @@ def listing(workflows, offset, state, selection, query=''):
             json_extract(payload,'$.job_id') AS job_id,
             coalesce(nullif(json_extract(payload,'$.identification_job_id'),''),json_extract(payload,'$.job_id')) AS root_id,
             json_extract(payload,'$.stage') AS stage,
+            json_extract(payload,'$.scene') AS scene,
             json_extract(payload,'$.task_type') AS task_type,
             coalesce(json_extract(payload,'$.label'),'') AS label,
             json_extract(payload,'$.job_kind') AS job_kind,
@@ -31,7 +32,7 @@ def listing(workflows, offset, state, selection, query=''):
         # Prerequisites without successors are stage history, never an import.
         current = [r for r in current if not r['hidden'] and not (r['stage']=='completed' and (r['task_type'] in ('identification','search') or r['job_kind']=='batch'))]
         current.sort(key=lambda r: (r['created_at'], r['id']), reverse=True)
-        order={'running':0,'downloading':0,'validating':0,'notifying':0,'metadata':1,'enrich':1,'requesting':2,'fallback':2,'searching':3,'identifying':4,'snapshotting':4}
+        order={'running':0,'downloading':0,'validating':0,'publishing':0,'retiring':0,'notifying':0,'requesting':1,'fallback':1,'searching':2,'identifying':3,'snapshotting':3,'metadata':4,'enrich':4}
         current.sort(key=lambda r: (bool(r['paused']),order.get(r['stage'],5)))
         if query.strip():current=[r for r in current if query.strip().casefold() in r['label'].casefold()]
         def matches(row):
@@ -61,4 +62,5 @@ def listing(workflows, offset, state, selection, query=''):
             'all_total': len(current), 'active': sum(not r['paused'] for r in active),
             'paused_count': sum(bool(r['paused']) for r in active), 'total_active': len(active),
             'finished': counts['completed'], 'preparing_count': counts['preparing'],
+            'scene_active_counts':dict(collections.Counter(row['scene'] for row in active)),
             'stage_counts': dict(counts), 'token_prompts': [r['job_id'] for r in current if r['stage']=='needs_review' and r['review_kind']=='token'][:100]}

diff --git a/src/musicops/app/service.py b/src/musicops/app/service.py
@@ -140,7 +140,9 @@ class AppService:
             task=self.store.get('tasks',payload['task_id'])
             if task is None:raise KeyError('TASK_NOT_FOUND')
             return {'task':task}
-        if command=='get_playlist_targets':return {'targets':self.store.list('target_tracks'),'network_used':False}
+        if command=='get_playlist_targets':
+            targets=self.store.list('target_tracks')
+            return {'targets':targets,'complete':bool(targets) and all(t.get('snapshot_complete') for t in targets),'from_cache':True,'network_used':False}
         if command=='events': return {'events':self.store.events(payload.get('after',0))}
         if command=='update_config': return {'config':self.config.save(payload['values'],payload['expected_version'])}
         if command=='export_config':
@@ -827,7 +829,7 @@ class AppService:
                     old=targets[target['target_id']];target['snapshot_ids']=old['snapshot_ids']+[sid];target['playlist_ids']=old['playlist_ids']+[str(pid)];target['snapshot_complete']=complete and old['snapshot_complete']
                 targets[target['target_id']]=target
         membership=self._persist_playlist_targets(targets,complete_ids)
-        return {'status':'OK' if all_complete else 'SNAPSHOT_INCOMPLETE','complete':all_complete,'snapshots':summaries,'targets':list(targets.values()),**membership,'read_only':True,'reason':'' if all_complete else '可见曲目已逐曲取详情；清单计数或详情存在未对账项，不能驱动下载'}
+        return {'status':'OK' if all_complete else 'SNAPSHOT_INCOMPLETE','complete':all_complete,'snapshots':summaries,'targets':list(targets.values()),**membership,'read_only':True,'reason':'' if all_complete else '来源清单数量或资料尚未完全对账；可手动选择已显示曲目入库，未返回的曲目不会被猜测补入'}
     def _persist_playlist_targets(self,targets,complete_ids):
         with self.mutex:
             return self._persist_playlist_targets_locked(targets,complete_ids)

diff --git a/src/musicops/__init__.py b/src/musicops/__init__.py
@@ -1,3 +1,3 @@
 """MusicOps: music library workflows."""
-__version__ = "0.4.13"
+__version__ = "0.4.14"
 SCHEMA_VERSION = 1

diff --git a/docs/代码审阅与验证.md b/docs/代码审阅与验证.md
@@ -1,3 +1,13 @@
+# 0.4.14 场景隔离与下载调度
+
+排查“只有识别、没有搜索下载”时区分三件事：当前提交的业务场景、界面分组以及待执行阶段。资料补全批次只整理本地原件的暂存副本，不会凭空创建音源下载；旧任务保存的 identify 分组会在读取时纠正为独立的“本地资料补全”，原记录不重写。任务中心显示场景数量，搜索和下载不会被大量待整理条目埋到后面几页。
+
+修复全局“存在任何活跃任务即拒绝新批次”的条件：已完成准备的资料补全与独立歌单可共存；同场景重复提交、并行索引准备、升级及缺曲补全与其他写库场景仍互斥。发布继续逐项执行并核对原件哈希。识别与搜索在两线程环境也保留位置；下载提交与进度轮询优先于大量资料整理，但三次后让资料整理获得机会，已验证的入库仍最高优先。
+
+新增独立档案回归覆盖：跨场景接受、重复与替换批次拒绝、准备互斥、历史任务分组纠正、下载调度与公平性、双线程预留，以及缓存加载不联网、不自动勾选、不自动创建下载。实际冻结程序增加跨场景提交、历史分组与不完整缓存三项检查，Windows 与 macOS ARM 发行均执行；不下载真实音乐、不消耗 FL。部分歌单缓存保留原有完整性标记，不能将平台未返回的歌曲当成已识别歌曲。
+
+---
+
 # 0.4.13 有上限的并行任务
 
 后台原先每次只执行一个专辑阶段，慢请求和整张专辑的流媒体回退会拖住其他任务。现在由一个协调任务原子领取最多 4 项独立识别、检索或流媒体阶段；流媒体和暂存副本资料整理分别最多 2 项，写库阶段保留独占调度。线程沿用进程的小核与后台优先级；未识别到小核时由系统分配。
